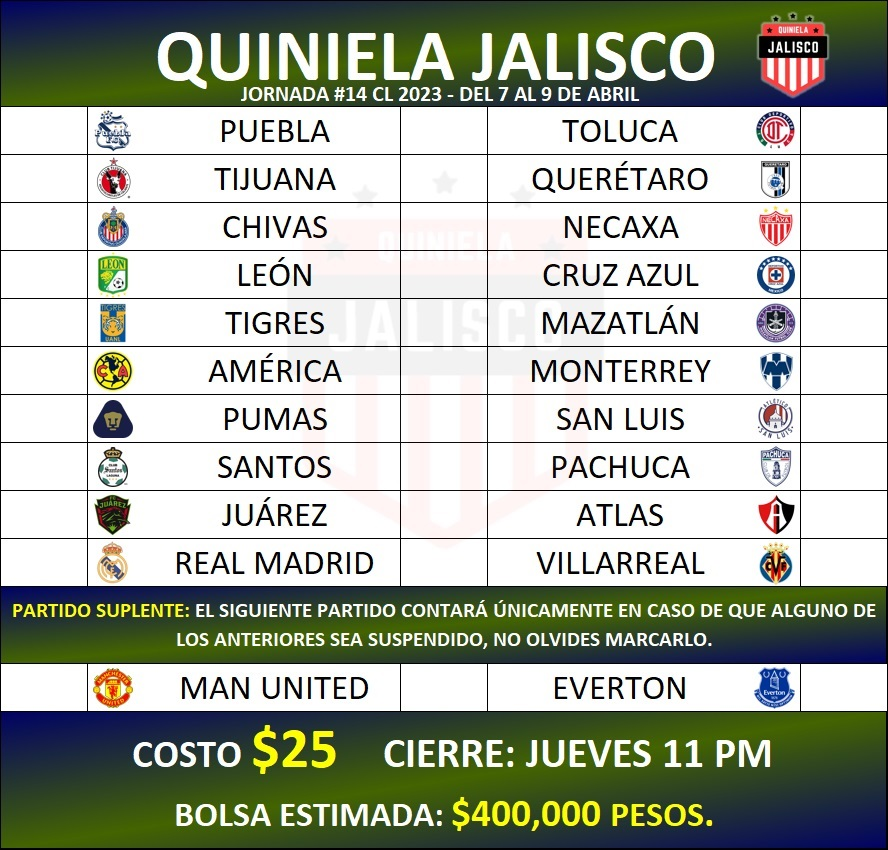
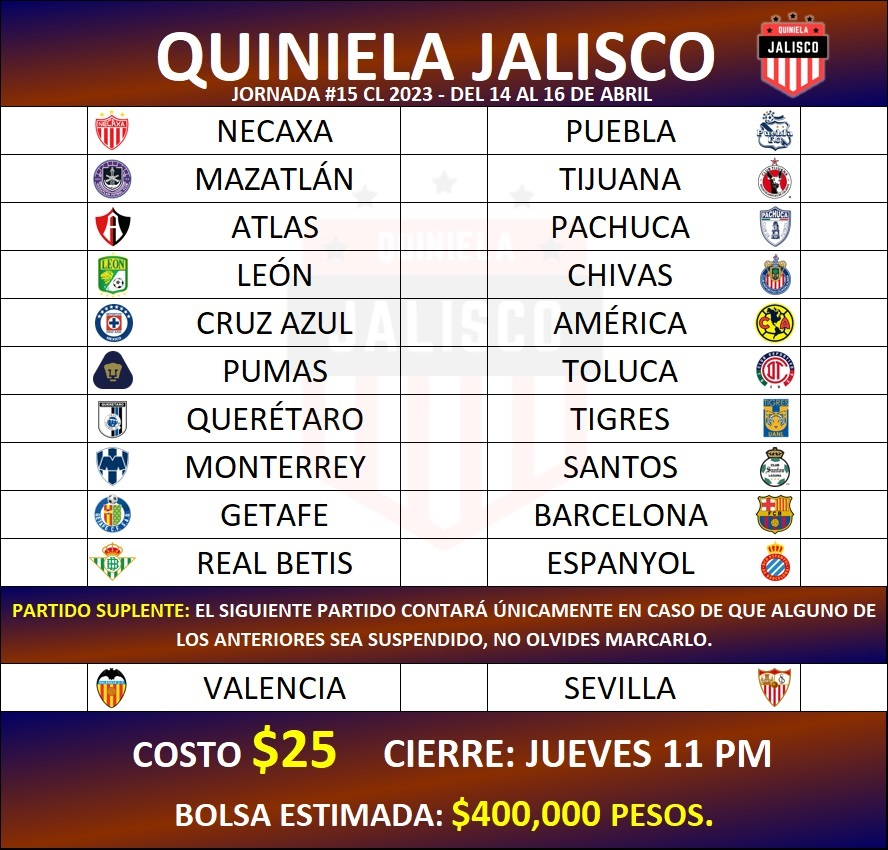
Jornada 15 C23

diff --git a/11/styles11.css b/11/styles11.css
@@ -94,8 +94,8 @@ body{
     margin-top: 9%;
     border-top: solid 1px black;
     border-radius: 0 0 14px 14px;
-    background: -webkit-linear-gradient(1turn, rgb(23,1,104) -28% ,rgb(66,98,1) 110%);
-    background: linear-gradient(1turn, rgb(23,1,104) -28% ,rgb(66,98,1) 110%);
+    background: -webkit-linear-gradient(1turn, rgb(23,1,104) -28% ,rgb(129,44,7) 110%);
+    background: linear-gradient(1turn, rgb(23,1,104) -28% ,rgb(129,44,7) 110%);
 }
 
 .text-lg{
